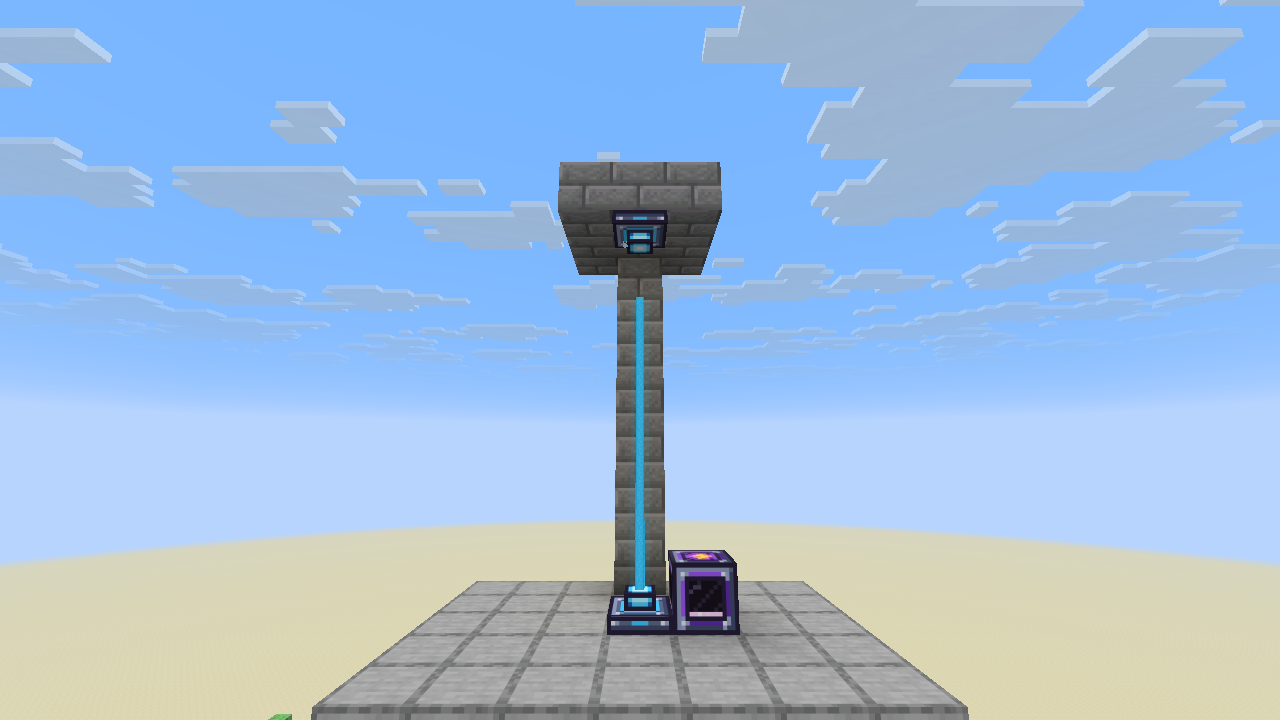
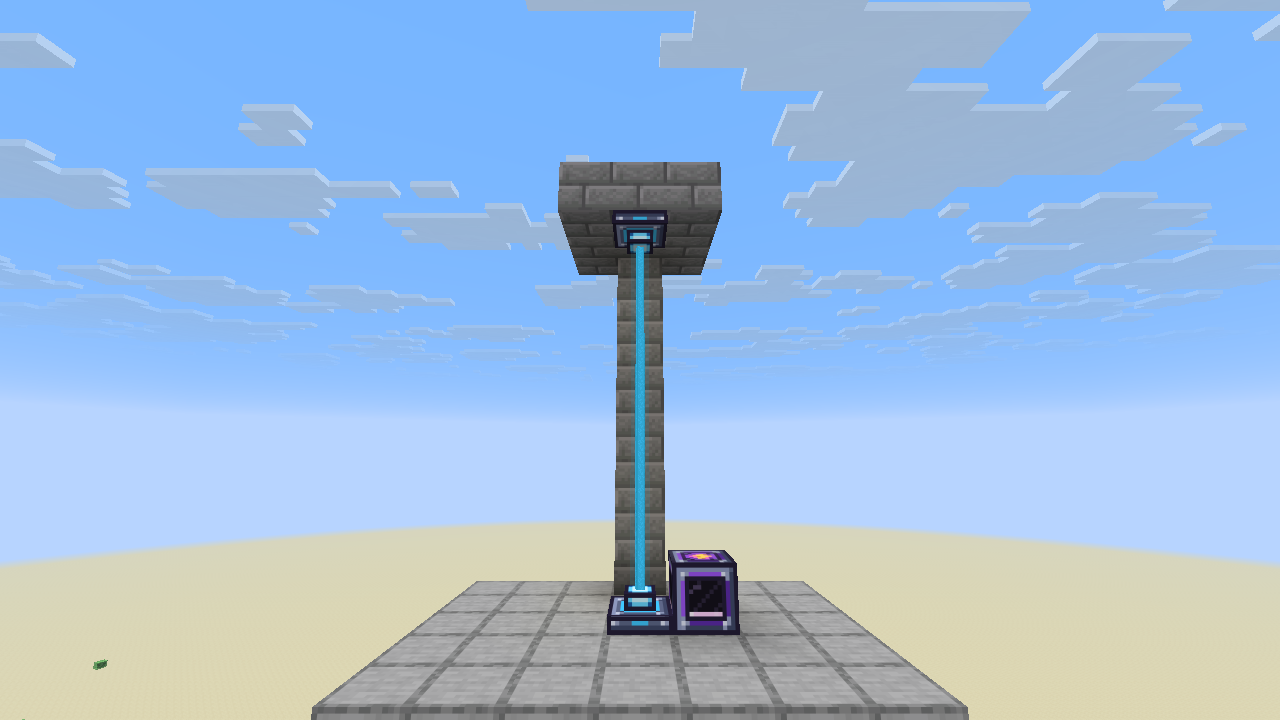
Make the Zero Point beam reach the ceiling module's emitter
Both emitter tips sit half a block into their blocks, so the beam must be
as long as the link distance; it was a block short and stopped below the
ceiling module. Adds a harness shot looking up at the ceiling module.

Claude-Session: https://claude.ai/code/session_012iurxobutw9xMP3SqHHLFE

diff --git a/src/main/java/com/jax3/barelyfunctionalcontraptions/sheep/client/ZeroPointBeamRenderer.java b/src/main/java/com/jax3/barelyfunctionalcontraptions/sheep/client/ZeroPointBeamRenderer.java
@@ -21,7 +21,7 @@ import org.jspecify.annotations.Nullable;
  */
 public class ZeroPointBeamRenderer implements BlockEntityRenderer<ZeroPointEnergyModuleBlockEntity, ZeroPointBeamRenderer.State> {
     public static final int BEAM_COLOR = 0xFF3FC8FF;
-    /** Height of the emitter tip above the bottom of the module's block (and below the top of the ceiling module's). */
+    /** Height of the emitter tip above the bottom of the module's block, for both modules (8 px: plate plus emitter). */
     private static final float EMITTER_TIP = 0.5F;
 
     public static final class State extends BlockEntityRenderState {
@@ -40,7 +40,9 @@ public class ZeroPointBeamRenderer implements BlockEntityRenderer<ZeroPointEnerg
         BlockEntityRenderer.super.extractRenderState(be, state, partialTicks, cameraPosition, breakProgress);
         boolean floorModule = be.getBlockState().hasProperty(ZeroPointEnergyModuleBlock.FACING)
                 && be.getBlockState().getValue(ZeroPointEnergyModuleBlock.FACING) == Direction.UP;
-        state.length = floorModule && be.getLinkDistance() > 0 ? be.getLinkDistance() - 2 * EMITTER_TIP : 0;
+        // Both emitter tips are half a block into their blocks (the floor one at +0.5, the ceiling one at
+        // distance + 0.5), so the beam is exactly as long as the distance between the two modules.
+        state.length = floorModule && be.getLinkDistance() > 0 ? be.getLinkDistance() : 0;
         state.animationTime = be.getLevel() != null ? Math.floorMod(be.getLevel().getGameTime(), 40) + partialTicks : 0;
     }
 

diff --git a/src/main/java/com/jax3/barelyfunctionalcontraptions/sheep/client/DevScreenshotHarness.java b/src/main/java/com/jax3/barelyfunctionalcontraptions/sheep/client/DevScreenshotHarness.java
@@ -288,7 +288,14 @@ public final class DevScreenshotHarness {
                 mc.player.closeContainer();
                 server.execute(() -> server.overworld().setBlock(zeroPointBase.above(3), Blocks.AIR.defaultBlockState(), 3));
             }
-            case 1625 -> {
+            case 1619 -> {
+                // Looking up at the ceiling module, to check the beam reaches its emitter.
+                setHudHidden(mc, true);
+                server.execute(() -> server.getCommands().performPrefixedCommand(server.createCommandSourceStack(),
+                        String.format(java.util.Locale.ROOT, "tp @a %.1f %d %.1f 180 -50", zeroPointBase.getX() + 0.5, zeroPointBase.getY() + 2, zeroPointBase.getZ() + 3.5)));
+            }
+            case 1640 -> shot(mc, "33_zero_point_beam_top");
+            case 1645 -> {
                 mc.gui.setScreen(null);
                 setHudHidden(mc, false);
                 ResourcefulSheep.LOGGER.warn("Screenshot harness finished; client definitions loaded: {}", SheepResourceRegistry.client().size());

diff --git a/TESTING.md b/TESTING.md
@@ -9,7 +9,7 @@ Environment for the results below: Minecraft 26.3, NeoForge 26.3.0.101, JEI 31.1
 | Build | `./gradlew build` | ✅ BUILD SUCCESSFUL, produces `build/libs/barelyfunctionalcontraptions-1.5.0.jar` |
 | Unit tests | `./gradlew test` | ✅ 36/36 passed (31 Mycelial Power + 5 Resourceful Sheep) |
 | In-world GameTests | `./gradlew runGameTestServer` | ✅ **All 77 required tests passed** on a dedicated-server GameTest server: 15 Mycelial Power, 50 Resourceful Sheep, 11 integration, 1 NeoForge built-in |
-| Real client | `./gradlew runClient -PscreenshotHarness` | ✅ Loads with JEI and Jade, with no errors or warnings from the mod in the log. The 32 screenshots and 8 crafting-table recipe shots are in [`docs/screenshots/`](docs/screenshots) |
+| Real client | `./gradlew runClient -PscreenshotHarness` | ✅ Loads with JEI and Jade, with no errors or warnings from the mod in the log. The 33 screenshots and 8 crafting-table recipe shots are in [`docs/screenshots/`](docs/screenshots) |
 
 ### Integration GameTests (`com.jax3.barelyfunctionalcontraptions.gametest.IntegrationGameTests`)
 
@@ -80,7 +80,7 @@ In the real client (`15_fluid_reservoir.png`, `16_fluid_reservoir_gui.png`): the
 A module pointing up on the floor and one pointing down three blocks above it link at distance 3, and report `LINKED`. Their GUI menus receive the link, distance, facing, generation, pair output and the pooled buffer size (both modules' buffers). Their output is 2 x `energyPerBlock` (a 2-block gap), and the two modules' shares add up to it. Both blockstates switch to `linked=true`. Glass in the gap keeps the link. Stone in the gap breaks it: both modules go back to `linked=false` and make nothing, and the floor module reports `BLOCKED` 2 blocks up. Two modules both pointing up don't link (`WRONG_FACING`, and the top one reports `NO_MODULE`), and nor do two touching modules (`TOO_CLOSE`). A Hume Energy Cube beside only the floor module receives the pair's full output: the ceiling module's half is drawn through the floor module, so its own buffer never builds up. In a second pair with nothing attached, the ceiling module's energy capability reports both buffers together, and one extraction from it takes the whole pool. Inserting FE into a module is refused.
 
 In the real client (`29_zero_point_modules.png`, `30_zero_point_jade.png`, `recipe_zero_point_energy_module.png`):
-- a floor module and a ceiling module under a stone overhang, 6 blocks apart, are joined by the blue beam, with both emitters lit;
+- a floor module and a ceiling module under a stone overhang, 6 blocks apart, are joined by the blue beam, with both emitters lit. Looking up from underneath (`33_zero_point_beam_top.png`), the beam runs right into the ceiling module's emitter: it goes from the floor emitter's tip, half a block up, to the ceiling emitter's tip, half a block into its block, so it is exactly as long as the distance between the modules (it used to stop a block short);
 - Jade on the floor module reads *Linked to the module above (5 block gap)* and *+50 FE/t, from either module*, with a 100 kFE pooled buffer that stays nearly empty because the floor module pushes the whole pool into the Hume Energy Cube next to it;
 - the recipe makes 2;
 - the GUI (`31_zero_point_gui.png`) shows the beam diagram with both modules lit and the beam between them, *of 100,000 FE*, *+50 FE/t*, *Shared pool*, *Out: 50 FE/t* (the full output, through the floor module alone) and a green *Linked: 5 block gap*;
